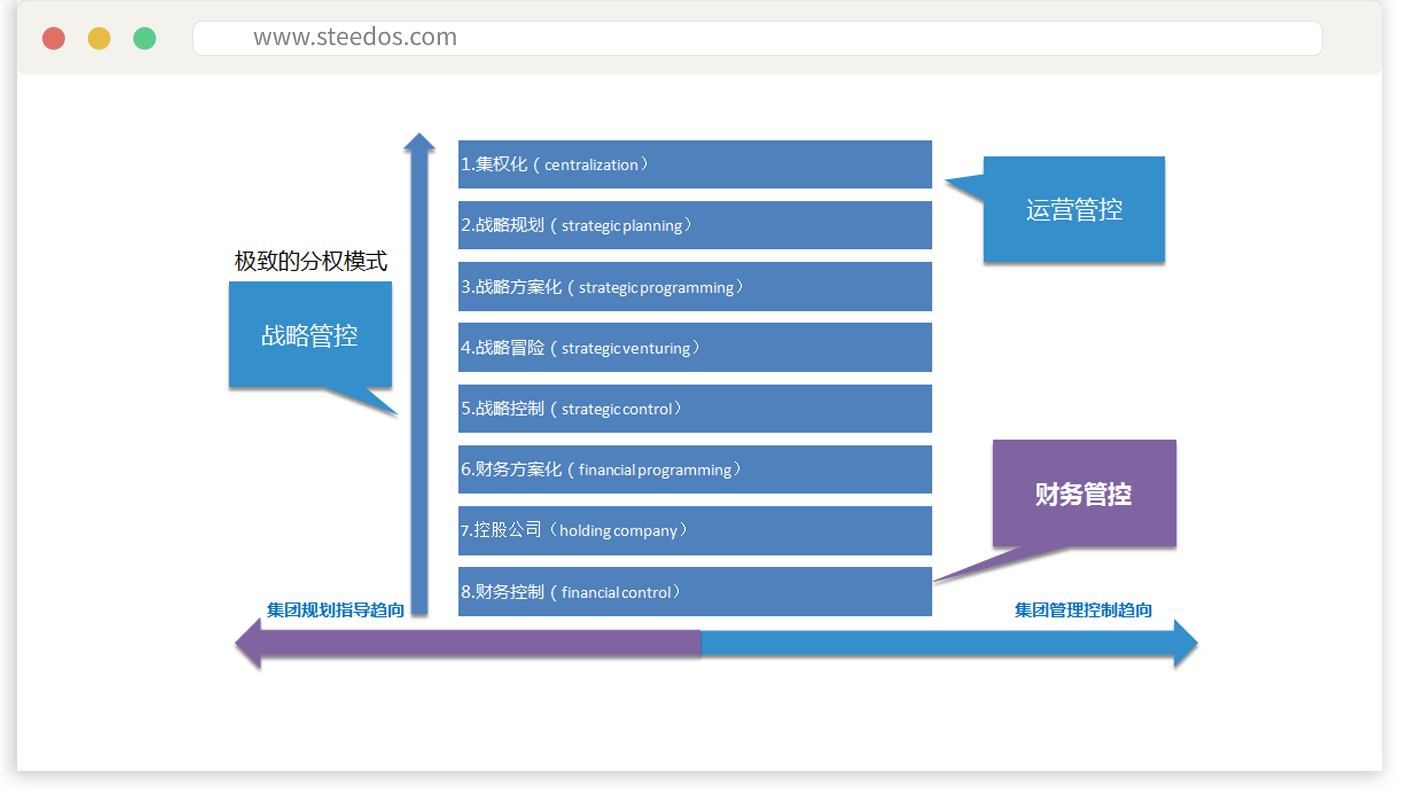
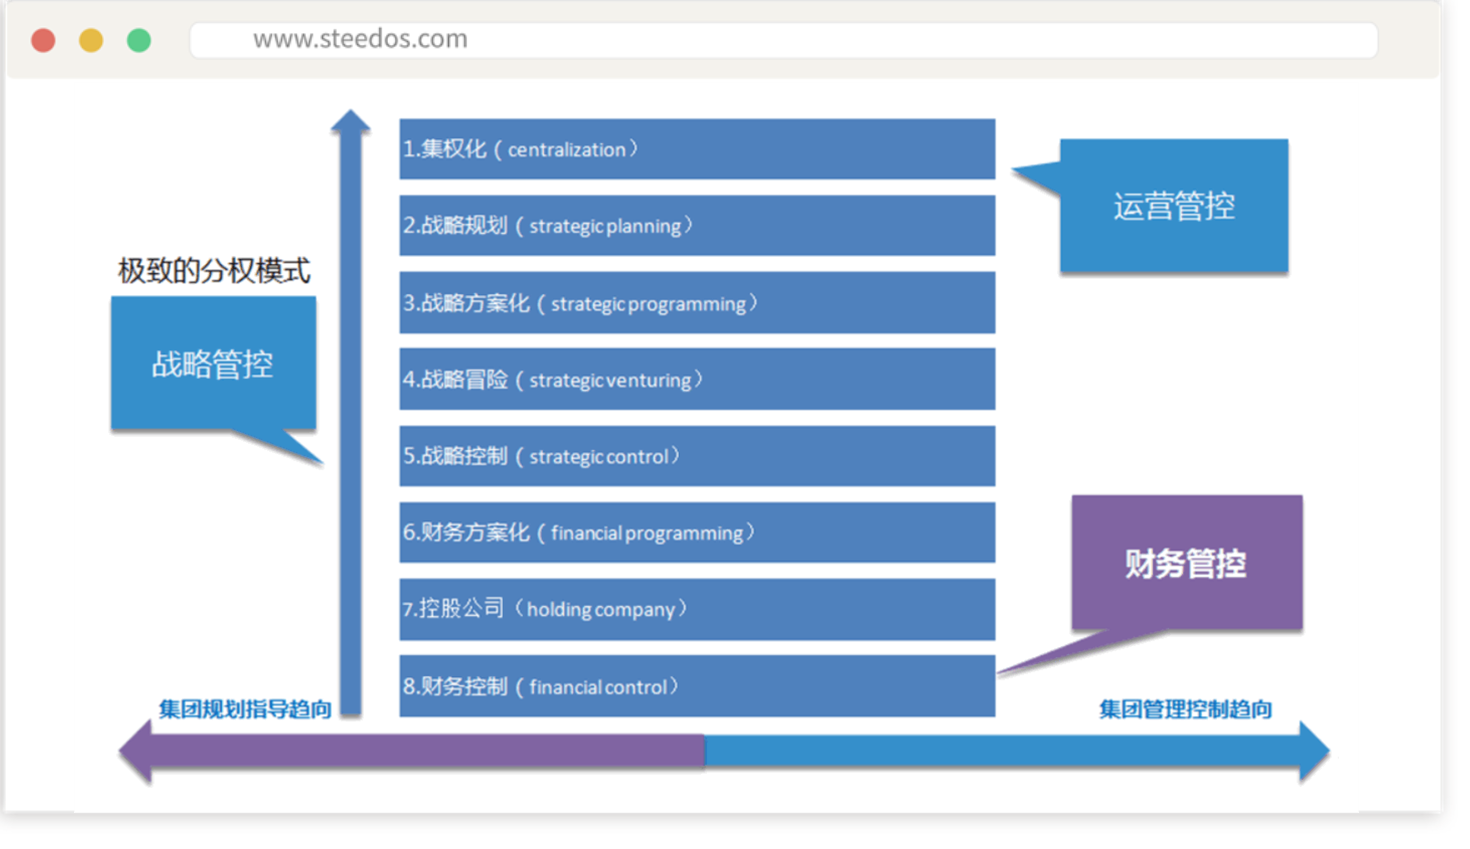
修改集团管控首页、美化图片

diff --git a/docs/group_management/home.md b/docs/group_management/home.md
@@ -8,19 +8,21 @@ sidebar_label: 概述
 ![管控](/assets/car_object_fields.png)
 
 ## 总体特色
-多管控模式融合：实现集团级的组织树、“弹性化”的集团组织体系、可视化集团分级分权体系、灵活的权限调整
-![多管控模式融合](/static/groupimg/m1_l.png)
-
-实时的上传下达：打破组织限制，确保各类信息从集团实时传达至各机构，实现传达内容的可视化以及传达方式的移动化应用
-![多管控模式融合](/static/groupimg/m2_l.png)
-
-统一的资源共享：实现集团的人力资源、知识资源、财务服务资源、法务资源、行政资源等所有资源的共享
-![多管控模式融合](/static/groupimg/m3_l.png)
-
-风险合规执行：建立集团统一的风险评估机制、风险预警机制、风险应对机制及风险整改机制，确保集团经营安全
-![多管控模式融合](/static/groupimg/m4_l.png)
+多管控模式融合：实现集团级的组织树、“弹性化”的集团组织体系、可视化集团分级分权体系、灵活的权限调整。
 
 ![模式](/assets/groupimg/mode.png)
+
+实时的上传下达：打破组织限制，确保各类信息从集团实时传达至各机构，实现传达内容的可视化以及传达方式的移动化应用。
+
+![多管控模式融合](/assets/groupimg/m2_l.png)
+
+统一的资源共享：实现集团的人力资源、知识资源、财务服务资源、法务资源、行政资源等所有资源的共享。
+
+![多管控模式融合](/assets/groupimg/m3_l.png)
+
+风险合规执行：建立集团统一的风险评估机制、风险预警机制、风险应对机制及风险整改机制，确保集团经营安全。
+
+![多管控模式融合](/assets/groupimg/m4_l.png)
 
 ## 逻辑框架
 
@@ -30,22 +32,22 @@ sidebar_label: 概述
 
 
 ## 应用领域
-建立统一的门户中心：集团门户、决策层门户、企业文化门户、职能门户、下属企业门户
+建立统一的门户中心：集团门户、决策层门户、企业文化门户、职能门户、下属企业门户。
 
-建立统一的流程中心：流程关联、决策分析、流程督办、流程报表
+建立统一的流程中心：流程关联、决策分析、流程督办、流程报表。
 
-建立统一的知识中心：知识库、知识地图、知识分享、专家地图、知识检索
+建立统一的知识中心：知识库、知识地图、知识分享、专家地图、知识检索。
 
-建立统一的公文中心：集团与下属公文一体化、收发文一体化、公文管理与监督一体化
+建立统一的公文中心：集团与下属公文一体化、收发文一体化、公文管理与监督一体化。
 
-建立统一的费控中心：集团型预算编制、全局预算方案管控、费用流程的管控
+建立统一的费控中心：集团型预算编制、全局预算方案管控、费用流程的管控。
 
-建立统一的会议中心：会议地图、会议过程、决议落实、会议分析
+建立统一的会议中心：会议地图、会议过程、决议落实、会议分析。
 
-建立统一的任务中心：任务汇集、任务分解、任务执行、任务反馈
+建立统一的任务中心：任务汇集、任务分解、任务执行、任务反馈。
 
-建立统一的项目中心：项目周期管理、项目任务分解、项目进度管理、项目实时监控
+建立统一的项目中心：项目周期管理、项目任务分解、项目进度管理、项目实时监控。
 
-建立统一的合同中心：合同台账管理、合同模板管理、合同履约管理、合同报表分析
+建立统一的合同中心：合同台账管理、合同模板管理、合同履约管理、合同报表分析。
 
-建立统一的行政中心：会议资源管理、资产资源管理、车辆资源管理、礼品资源管理
+建立统一的行政中心：会议资源管理、资产资源管理、车辆资源管理、礼品资源管理。
